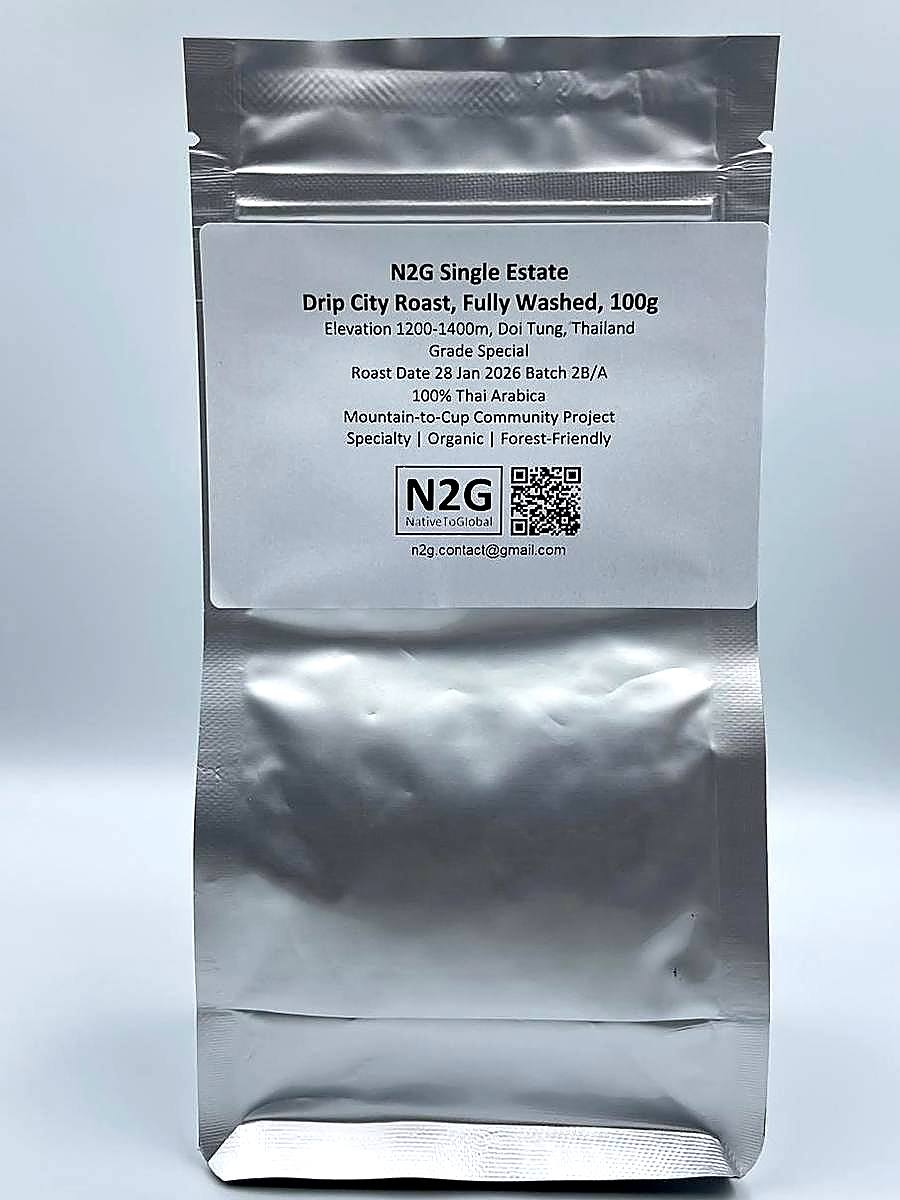
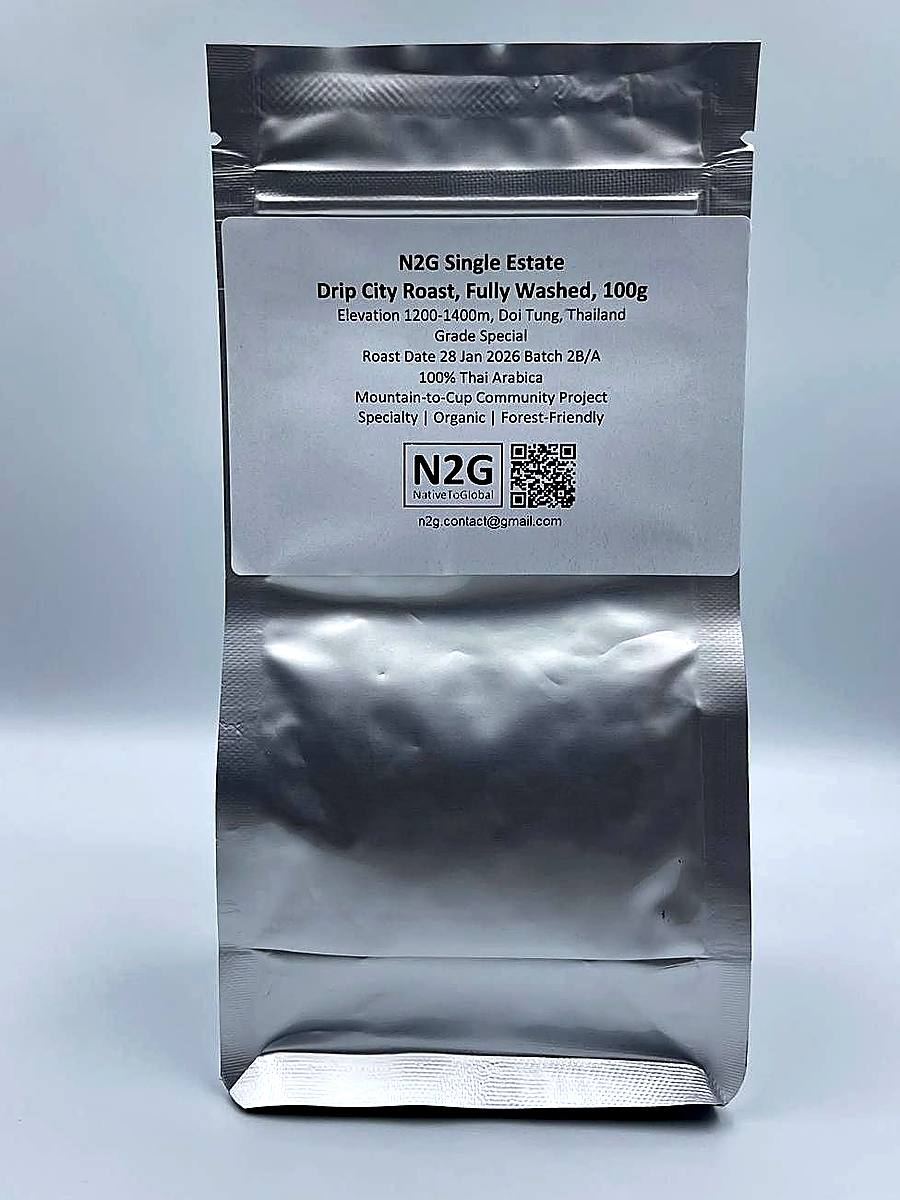
Coffee: refresh all four bag images with tighter crops + enhancement
- Drip Select X.O.: new drip-xo-bag.
- Espresso Select Special: refreshed espresso-special-bag.
- Espresso Select Classic: refreshed espresso-classic-bag.
- Bulk bag tile: new coffee-bulk-quartet (4 bags, 4:3).
- Drop unused bulk-bag and coffee-bulk-pouch files.
- All cropped 3:4 (cards) or 4:3 (tile), enhanced with +brightness,
  +contrast, slight desaturation, unsharp mask for label clarity.

diff --git a/index.html b/index.html
@@ -930,7 +930,7 @@ a:focus-visible,button:focus-visible,.back-link:focus-visible,.cta-btn:focus-vis
 
 <!-- Coffee product cards with photos -->
 <div class="coffee-card">
-  <div class="coffee-card-img"><picture><source srcset="/img/bulk-bag.webp" type="image/webp"><img src="/img/bulk-bag.jpg" alt="Bulk bag of coffee" loading="lazy"></picture></div>
+  <div class="coffee-card-img"><picture><source srcset="/img/drip-xo-bag.webp" type="image/webp"><img src="/img/drip-xo-bag.jpg" alt="Drip Select X.O. coffee bag" loading="lazy"></picture></div>
   <div><div class="prod-name">Drip Select X.O.</div><div class="prod-sub"><span class="lang-en">Filter / Pour-over · AA-A · Roast: Cinnamon, Light, City</span><span class="lang-th th-text">ฟิลเตอร์ / พัวร์โอเวอร์ · AA-A · คั่ว: Cinnamon, Light, City</span></div><p style="font-size:13px;color:var(--text2);margin-top:10px;line-height:1.6;font-style:italic"><span class="lang-en">Our top grade. Complex and juicy. Best as a light-roast filter coffee.</span><span class="lang-th th-text">คัดสรรพิเศษสุด — ซับซ้อนและฉ่ำ เหมาะเป็นกาแฟฟิลเตอร์คั่วอ่อน</span></p><div class="flavs"><span class="flav"><span class="lang-en">Brown sugar</span><span class="lang-th th-text">บราวน์ชูการ์</span></span><span class="flav"><span class="lang-en">Orange blossom</span><span class="lang-th th-text">ดอกส้ม</span></span><span class="flav"><span class="lang-en">Sweet mandarin</span><span class="lang-th th-text">แมนดารินหวาน</span></span><span class="flav"><span class="lang-en">Lychee</span><span class="lang-th th-text">ลิ้นจี่</span></span><span class="flav"><span class="lang-en">Peach</span><span class="lang-th th-text">พีช</span></span></div><span class="coffee-card-tasting"><span class="lang-en">Soft body with juicy sweet finish</span><span class="lang-th th-text">บอดี้นุ่มกับฟินิชหวานฉ่ำ</span></span></div>
 </div>
 <div class="coffee-card">
@@ -938,7 +938,7 @@ a:focus-visible,button:focus-visible,.back-link:focus-visible,.cta-btn:focus-vis
   <div><div class="prod-name">Espresso Select Special</div><div class="prod-sub"><span class="lang-en">Espresso · AA-A · Roast: City, Medium, Full City</span><span class="lang-th th-text">เอสเพรสโซ่ · AA-A · คั่ว: City, Medium, Full City</span></div><p style="font-size:13px;color:var(--text2);margin-top:10px;line-height:1.6;font-style:italic"><span class="lang-en">The osmanthus flower note is distinctive to our Doi Tung terroir.</span><span class="lang-th th-text">กลิ่นดอกออสแมนทัสเป็นเอกลักษณ์ของเทอร์รัวร์ดอยตุง</span></p><div class="flavs"><span class="flav"><span class="lang-en">Caramel</span><span class="lang-th th-text">คาราเมล</span></span><span class="flav"><span class="lang-en">Palm sugar</span><span class="lang-th th-text">น้ำตาลปาล์ม</span></span><span class="flav"><span class="lang-en">Osmanthus</span><span class="lang-th th-text">ออสแมนทัส</span></span><span class="flav"><span class="lang-en">Passion fruit</span><span class="lang-th th-text">เสาวรส</span></span><span class="flav"><span class="lang-en">Dark chocolate</span><span class="lang-th th-text">ดาร์กช็อกโกแลต</span></span></div><span class="coffee-card-tasting"><span class="lang-en">Good body with long sweet finish</span><span class="lang-th th-text">บอดี้ดีกับฟินิชหวานยาว</span></span></div>
 </div>
 <div class="coffee-card">
-  <div class="coffee-card-img"><picture><source srcset="/img/coffee-bulk-pouch.webp" type="image/webp"><img src="/img/coffee-bulk-pouch.jpg" alt="Espresso Select Classic coffee bag" loading="lazy"></picture></div>
+  <div class="coffee-card-img"><picture><source srcset="/img/espresso-classic-bag.webp" type="image/webp"><img src="/img/espresso-classic-bag.jpg" alt="Espresso Select Classic coffee bag" loading="lazy"></picture></div>
   <div><div class="prod-name">Espresso Select Classic</div><div class="prod-sub"><span class="lang-en">Espresso · Mixed · Roast: Medium, Full City</span><span class="lang-th th-text">เอสเพรสโซ่ · มิกซ์ · คั่ว: Medium, Full City</span></div><p style="font-size:13px;color:var(--text2);margin-top:10px;line-height:1.6;font-style:italic"><span class="lang-en">Our everyday espresso. Works beautifully in milk-based drinks.</span><span class="lang-th th-text">เอสเพรสโซ่สำหรับทุกวัน เข้ากันดีกับเครื่องดื่มนม</span></p><div class="flavs"><span class="flav"><span class="lang-en">Butterscotch</span><span class="lang-th th-text">บัตเตอร์สก็อตช์</span></span><span class="flav"><span class="lang-en">Sweet orange</span><span class="lang-th th-text">ส้มหวาน</span></span><span class="flav"><span class="lang-en">Vanilla</span><span class="lang-th th-text">วานิลลา</span></span></div><span class="coffee-card-tasting"><span class="lang-en">Mellow body with lingering sweet finish</span><span class="lang-th th-text">บอดี้นุ่มนวลกับฟินิชหวานยาวนาน</span></span></div>
 </div>
 
@@ -952,7 +952,7 @@ a:focus-visible,button:focus-visible,.back-link:focus-visible,.cta-btn:focus-vis
   <div class="format-tile"><div class="format-tile-img-wrap"><img class="format-tile-img" src="/img/parchment.jpeg" alt="Parchment coffee beans" loading="lazy"></div><div class="format-tile-label"><span class="lang-en">Parchment</span><span class="lang-th th-text">กาแฟกะลา</span></div></div>
   <div class="format-tile"><div class="format-tile-img-wrap"><img class="format-tile-img" src="/img/green-beans.jpeg" alt="Green coffee beans" loading="lazy"></div><div class="format-tile-label"><span class="lang-en">Green beans</span><span class="lang-th th-text">กรีนบีน</span></div></div>
   <div class="format-tile"><div class="format-tile-img-wrap"><picture><source srcset="/img/roasted-beans-closeup.webp" type="image/webp"><img class="format-tile-img" src="/img/roasted-beans-closeup.jpg" alt="Roasted coffee beans close-up" loading="lazy"></picture></div><div class="format-tile-label"><span class="lang-en">Roasted</span><span class="lang-th th-text">เมล็ดคั่ว</span></div></div>
-  <div class="format-tile"><div class="format-tile-img-wrap"><picture><source srcset="/img/espresso-classic-bag.webp" type="image/webp"><img class="format-tile-img" src="/img/espresso-classic-bag.jpg" alt="Bulk bags of coffee" style="object-position:50% 70%" loading="lazy"></picture></div><div class="format-tile-label"><span class="lang-en">Bulk bag</span><span class="lang-th th-text">ถุงบัลค์</span></div></div>
+  <div class="format-tile"><div class="format-tile-img-wrap"><picture><source srcset="/img/coffee-bulk-quartet.webp" type="image/webp"><img class="format-tile-img" src="/img/coffee-bulk-quartet.jpg" alt="Bulk bags of coffee" loading="lazy"></picture></div><div class="format-tile-label"><span class="lang-en">Bulk bag</span><span class="lang-th th-text">ถุงบัลค์</span></div></div>
   <div class="format-tile"><div class="format-tile-img-wrap"><picture><source srcset="/img/coffee-capsules-box-lineup.webp" type="image/webp"><img class="format-tile-img" src="/img/coffee-capsules-box-lineup.jpeg" alt="Espresso capsules" loading="lazy"></picture></div><div class="format-tile-label"><span class="lang-en">Capsules</span><span class="lang-th th-text">แคปซูล</span></div></div>
   <div class="format-tile"><div class="format-tile-img-wrap"><picture><source srcset="/img/drip-box-open.webp" type="image/webp"><img class="format-tile-img" src="/img/drip-box-open.jpg" alt="Mountain to Cup drip bag gift box" loading="lazy"></picture></div><div class="format-tile-label"><span class="lang-en">Drip bags</span><span class="lang-th th-text">ดริปแบ็ก</span></div></div>
   <div class="format-tile"><div class="format-tile-img-wrap"><picture><source srcset="/img/cube-box-front-straight.webp" type="image/webp"><img class="format-tile-img" src="/img/cube-box-front-straight.jpg" alt="Mountain to Cup cube box packaging" loading="lazy"></picture></div><div class="format-tile-label"><span class="lang-en">Gift box</span><span class="lang-th th-text">กล่องของขวัญ</span></div></div>
